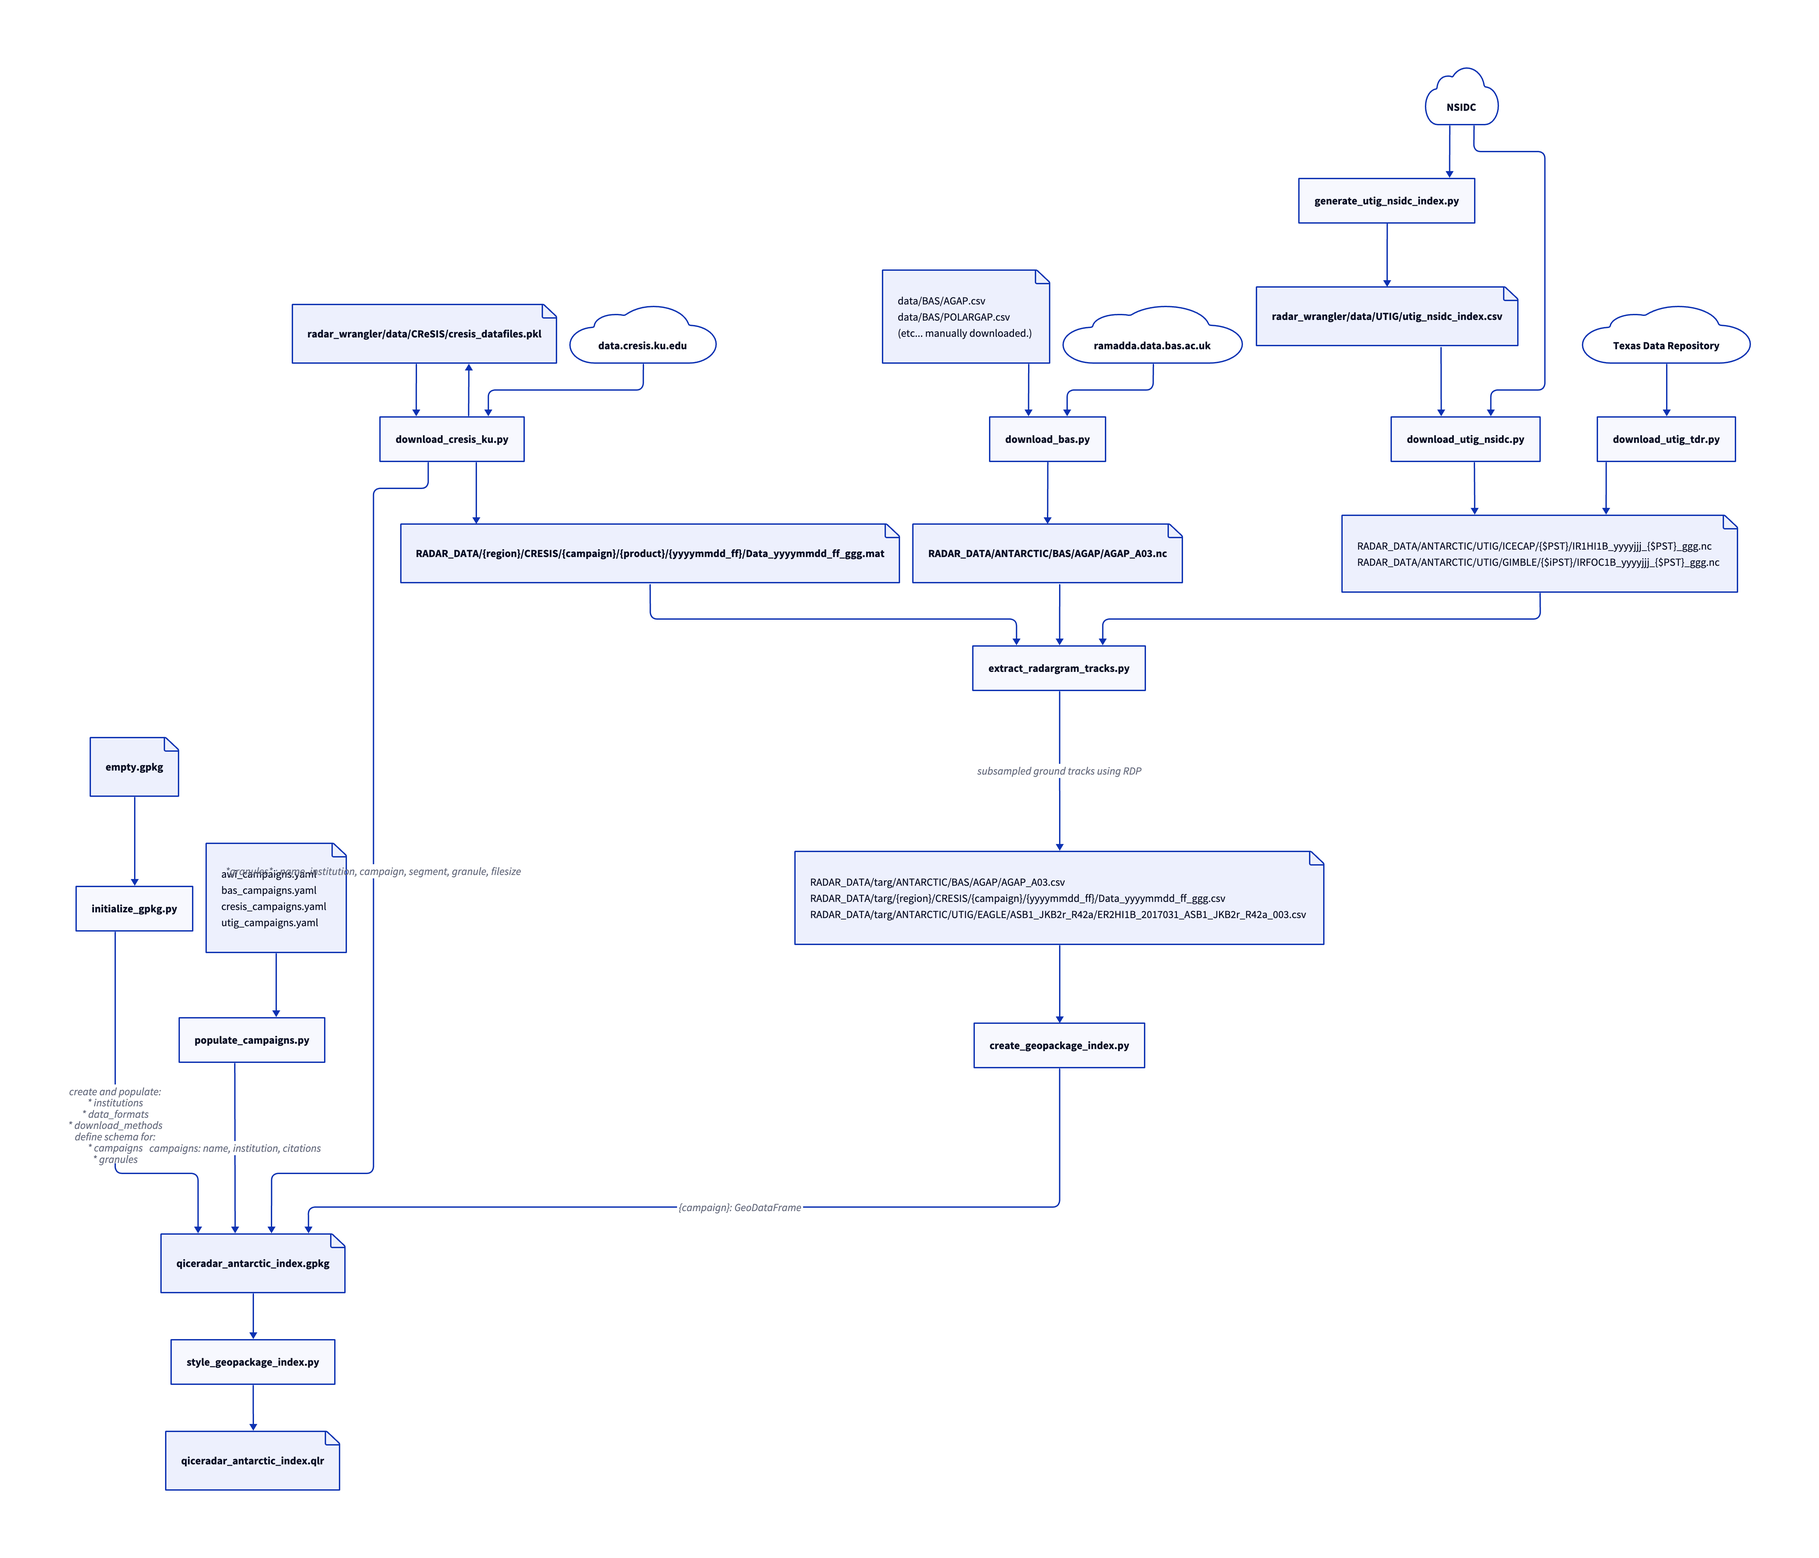
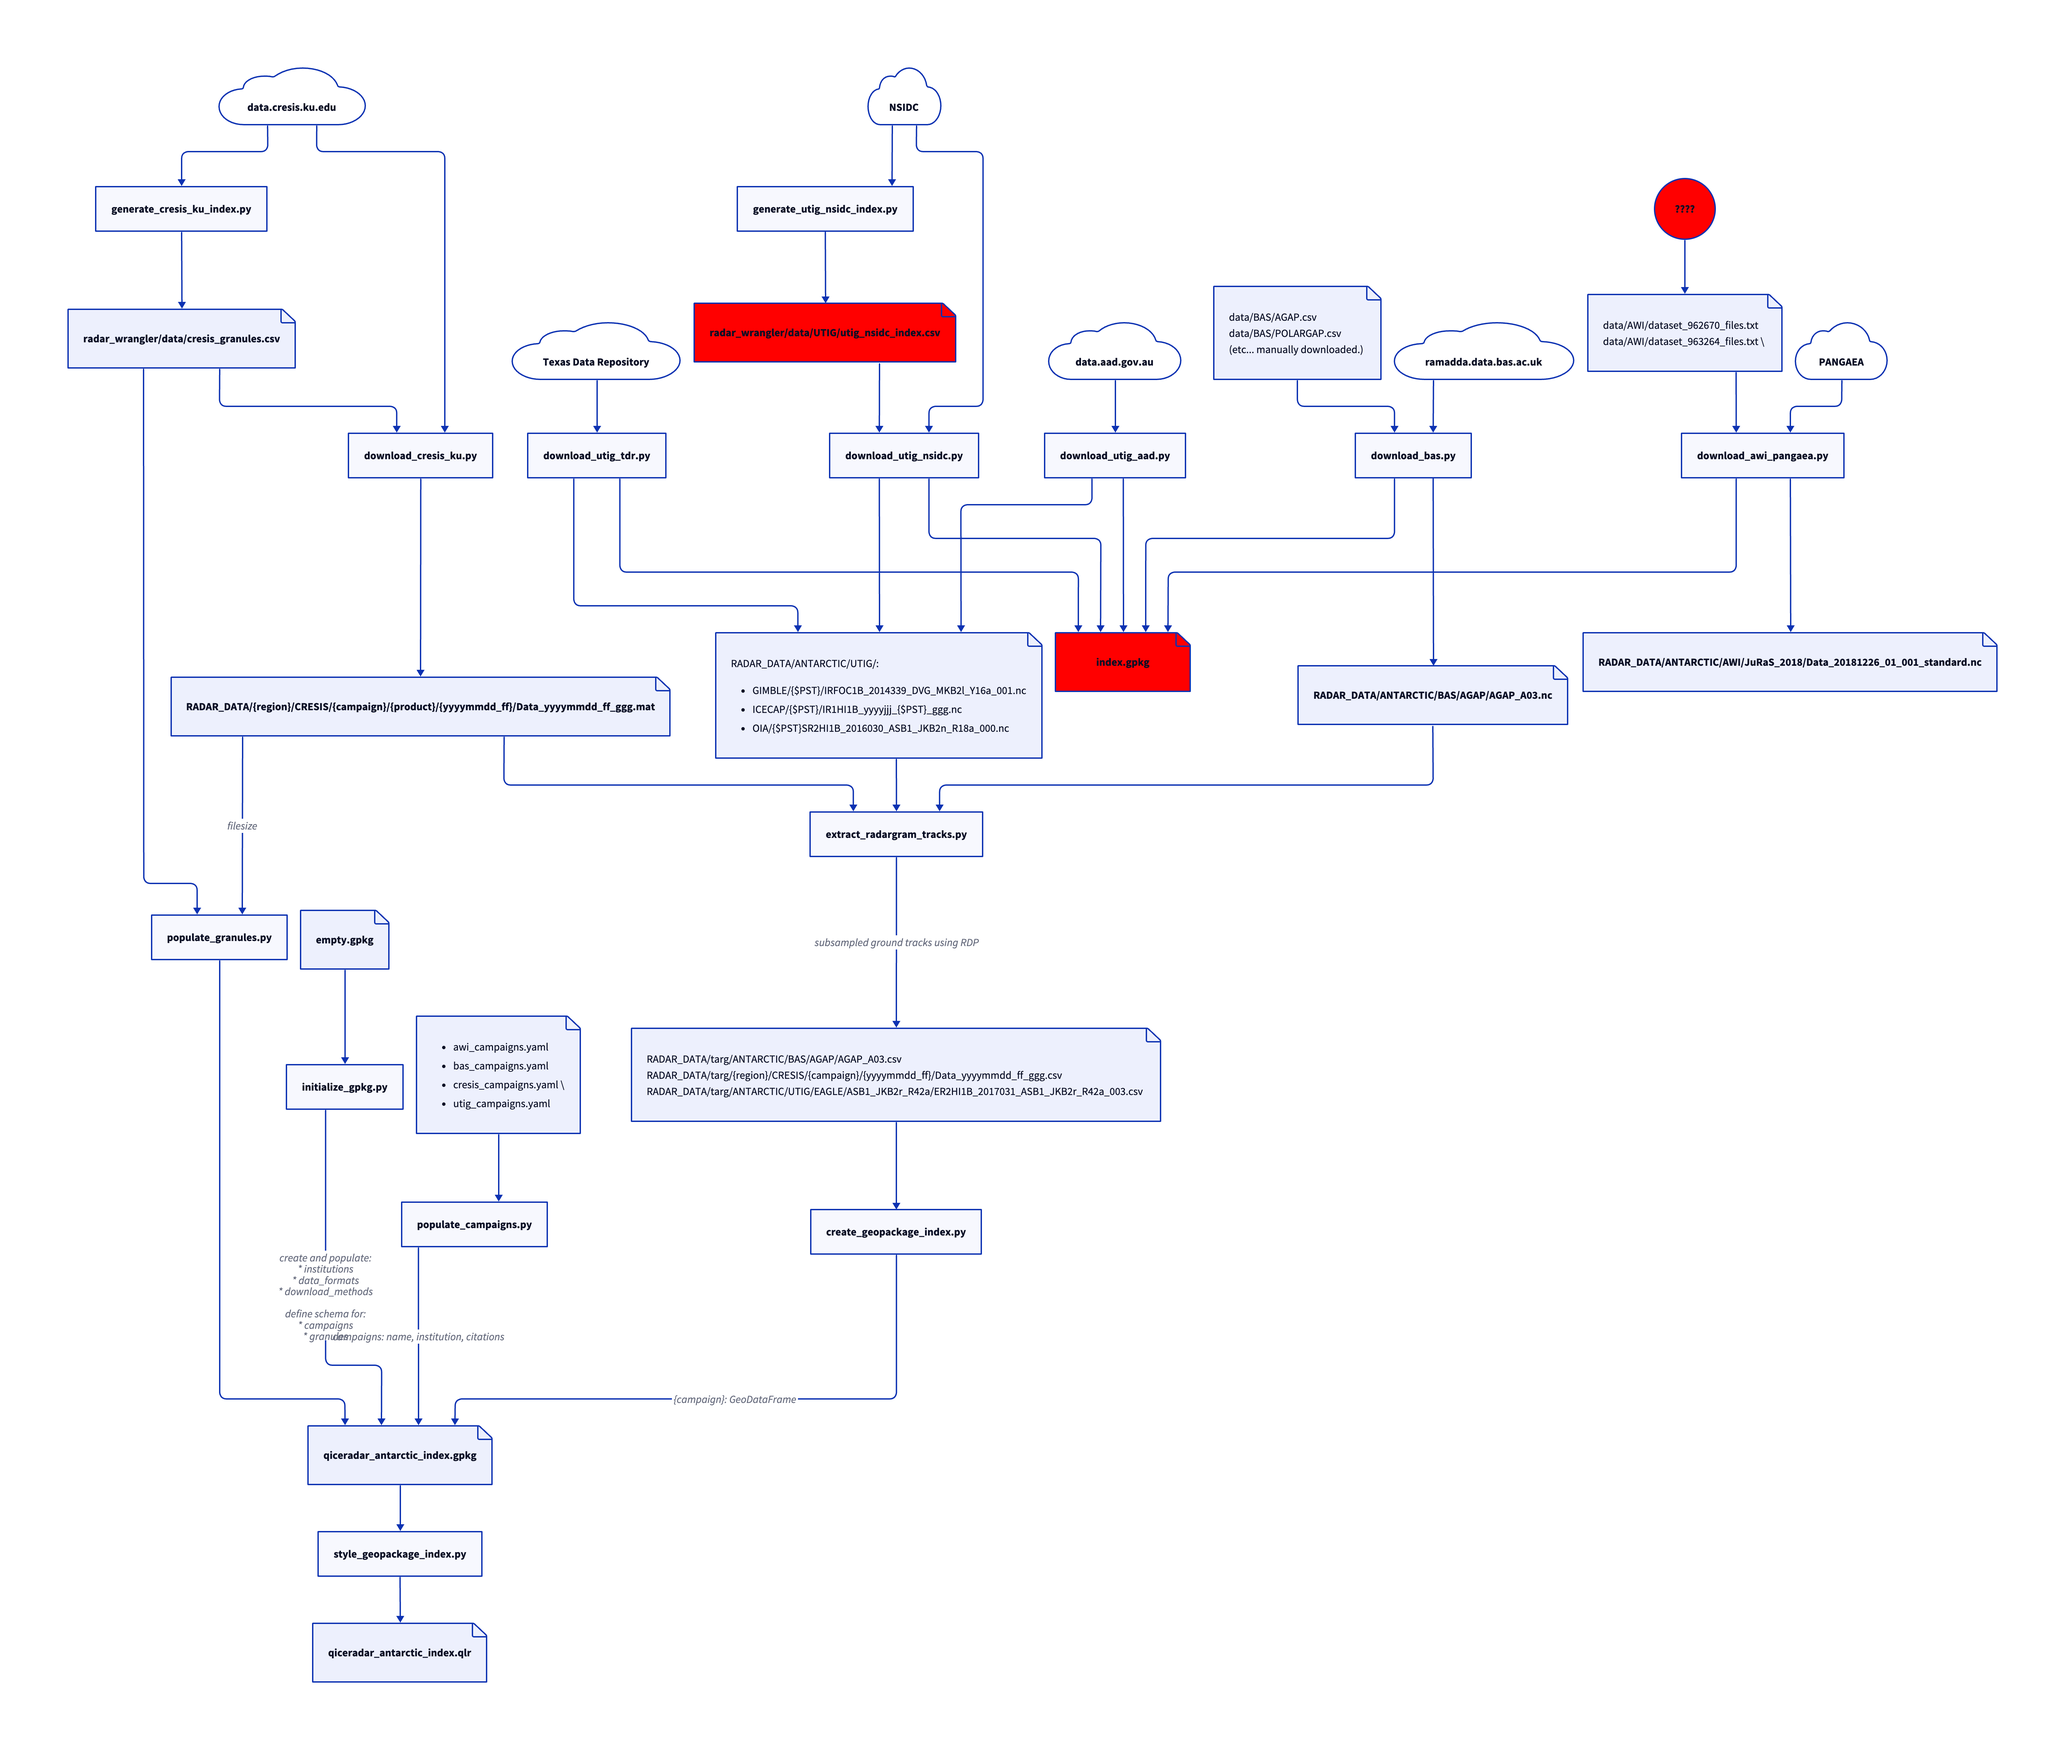
Update dataflow diagram
* Split CReSIS index from download
* Add UTIG AAD flow
* Add AWI flow

diff --git a/code/download_awi_pangaea.py b/code/download_awi_pangaea.py
@@ -46,7 +46,7 @@ def download_awi(root_dir: str, antarctic_index: str, campaign: str) -> None:
         print(ex)
         raise Exception(f"Could not create {dest_dir}; already exists")
 
-    for ff in open(f"../../data/AWI/dataset_{dataset}_files.txt", 'r'):
+    for ff in open(f"../data/AWI/dataset_{dataset}_files.txt", 'r'):
         filename = ff.strip()
 
         mm = re.match(expr, filename)

diff --git a/code/download_awi.py b/code/download_awi.py
@@ -1,5 +1,7 @@
 #! /usr/bin/env python3
 """
+THIS IS THE OLDER VERSION
+
 For now, I've given up on generating the index automatically;
 instead, download_awi_pangaea uses a manually-generated index
 which was copy-pasted from their accompanying README files.
